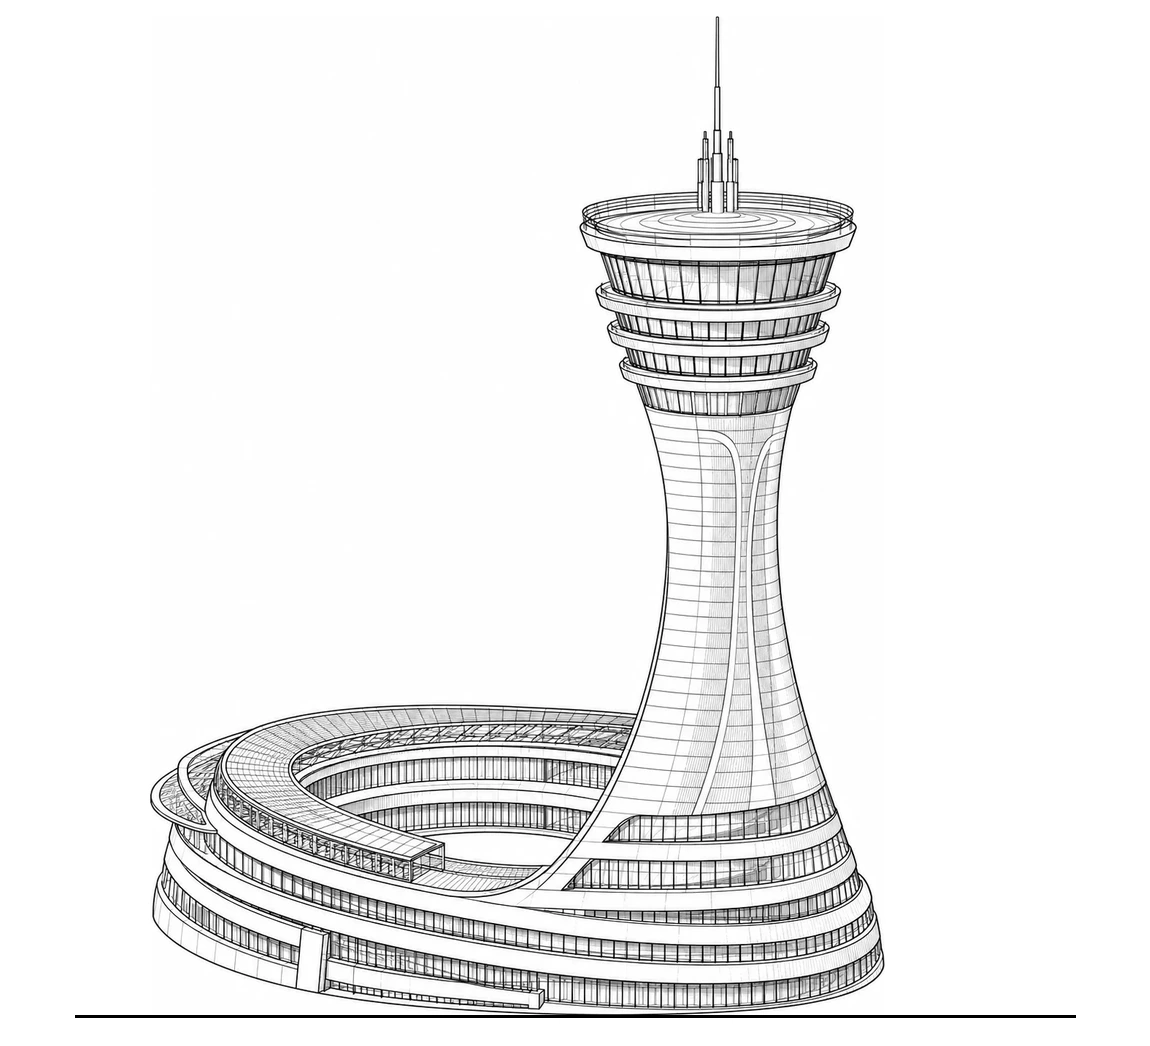
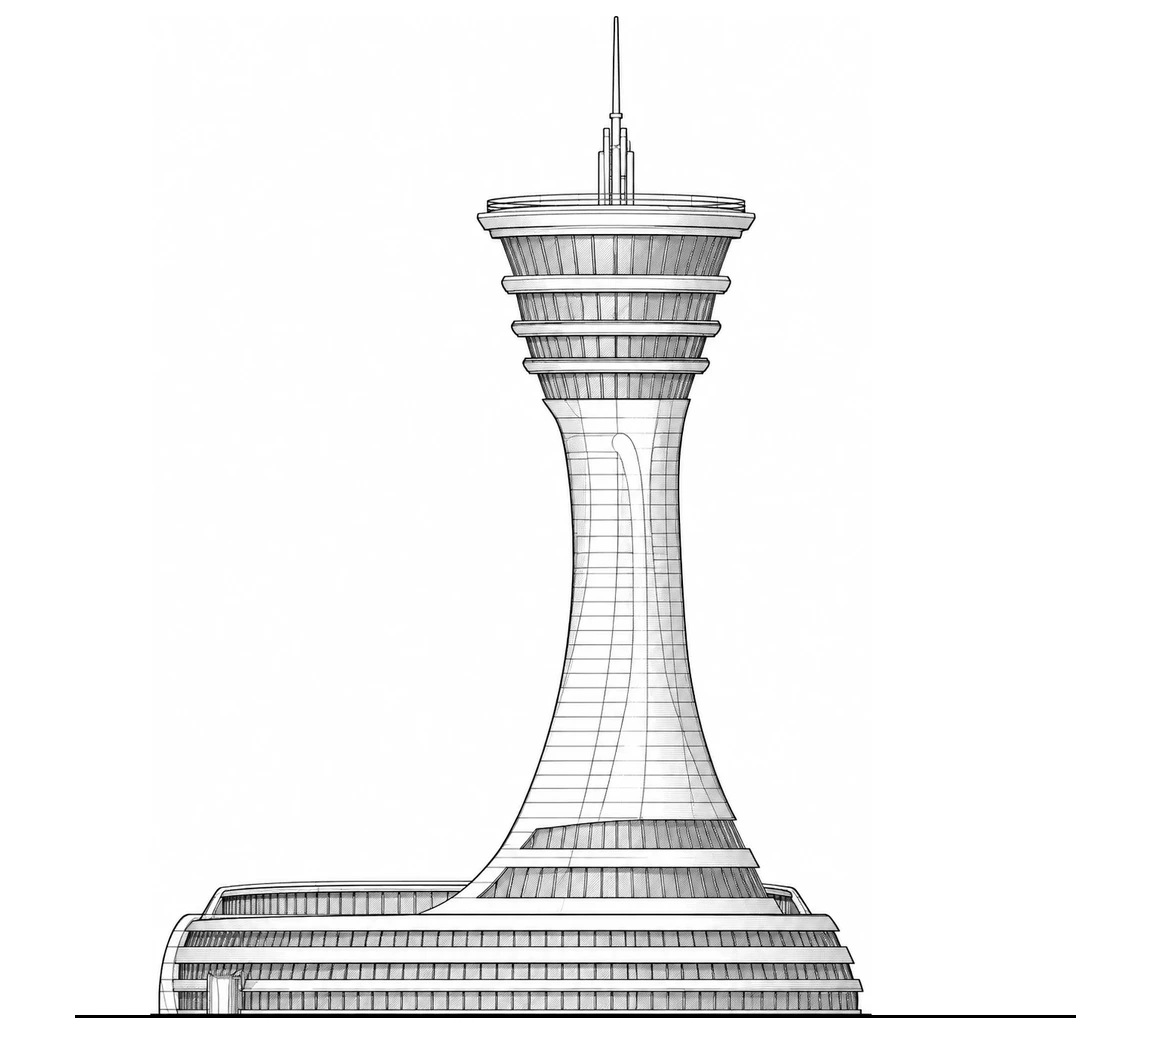
Esenboğa figure: front-elevation drawing, cranes re-placed

Changed region(s): [[0.1217, 0.0306, 0.7913, 0.979]]

diff --git a/index.html b/index.html
@@ -36,7 +36,7 @@
   </section>
 
   <figure id="skyline" class="wrap skyline" data-skyline="assets/senkon/skyline.json" aria-label="Dünyanın simge yapılarından oluşan silüet">
-    <div class="skyline-stage"><img class="skyline-static" src="assets/senkon/skyline.webp?v=20261009k" alt="Eyfel Kulesi'nden Burj Khalifa'ya on üç simge yapının çizgi silüeti" width="2000" height="500"></div>
+    <div class="skyline-stage"><img class="skyline-static" src="assets/senkon/skyline.webp?v=20261009l" alt="Eyfel Kulesi'nden Burj Khalifa'ya on üç simge yapının çizgi silüeti" width="2000" height="500"></div>
     <figcaption class="skyline-caption">Yapı mühendisliğinin simge yapıları.</figcaption>
   </figure>
 
@@ -62,7 +62,7 @@
         <p class="featured-meta">Kule ve ikincil yapılar · 12.000 m² · Ankara</p>
       </div>
       <figure class="skyline featured-figure" data-skyline="assets/senkon/esenboga.json" data-tallest-m="280" aria-label="Esenboğa Havalimanı Kontrol Kulesi çizimi">
-        <div class="skyline-stage"><img class="skyline-static" src="assets/senkon/esenboga.webp?v=20261009k" alt="Esenboğa Havalimanı Kontrol Kulesi ve spiral teknik bloğun çizgi çizimi" width="1150" height="1046"></div>
+        <div class="skyline-stage"><img class="skyline-static" src="assets/senkon/esenboga.webp?v=20261009l" alt="Esenboğa Havalimanı Kontrol Kulesi ve teknik bloğun ön görünüş çizimi" width="1150" height="1046"></div>
         <figcaption class="skyline-caption">Kule ve teknik blok, çizgi çizimi</figcaption>
       </figure>
     </div>
@@ -152,6 +152,6 @@
   });
 })();
 </script>
-<script src="assets/senkon/skyline.js?v=20261009k" defer></script>
+<script src="assets/senkon/skyline.js?v=20261009l" defer></script>
 </body>
 </html>

diff --git a/docs/senkon-site.md b/docs/senkon-site.md
@@ -9,4 +9,4 @@ Static site on GitHub Pages (branch `main`). No build step.
 - `tools/`: `make-logo.py`, `fetch-fonts.js`, `measure-skyline.py`, `make-model-sql.js`.
 - `tests/`: `node --test` (bare) runs everything.
 
-The skyline picture is composed from the ChatGPT drawing kept outside the repo (`local/skyline-chatgpt-v3.webp`): `python tools/compose-skyline.py <drawing> assets/senkon/skyline.webp --gap 60 --drop 1,7,10,11,15` (drops Flatiron, the İstanbul Airport tower, the Gherkin, SWFC and One WTC; `--insert i:file:height_px` can add a stand-alone drawing, e.g. the Esenboğa tower kept in `local/esenboga-ref/`). The Esenboğa figure: `python tools/compose-skyline.py --blank 1150x1100 assets/senkon/esenboga.webp --insert 0:local/esenboga-ref/esenboga-drawing.webp:1000 --margin 150`, then measure it and keep the `cranes` list in `esenboga.json`. After any change re-measure the building columns: `python tools/measure-skyline.py assets/senkon/skyline.webp assets/senkon/skyline.json assets/senkon/skyline-names.txt` (add `--split x` where two neighbours touch). Names in `skyline-names.txt` are in left-to-right order.
+The skyline picture is composed from the ChatGPT drawing kept outside the repo (`local/skyline-chatgpt-v3.webp`): `python tools/compose-skyline.py <drawing> assets/senkon/skyline.webp --gap 60 --drop 1,7,10,11,15` (drops Flatiron, the İstanbul Airport tower, the Gherkin, SWFC and One WTC; `--insert i:file:height_px` can add a stand-alone drawing, e.g. the Esenboğa tower kept in `local/esenboga-ref/`). The Esenboğa figure: `python tools/compose-skyline.py --blank 1150x1100 assets/senkon/esenboga.webp --insert 0:local/esenboga-ref/esenboga-elevation.webp:1000 --margin 150`, then measure it and keep the `cranes` list in `esenboga.json`. After any change re-measure the building columns: `python tools/measure-skyline.py assets/senkon/skyline.webp assets/senkon/skyline.json assets/senkon/skyline-names.txt` (add `--split x` where two neighbours touch). Names in `skyline-names.txt` are in left-to-right order.
